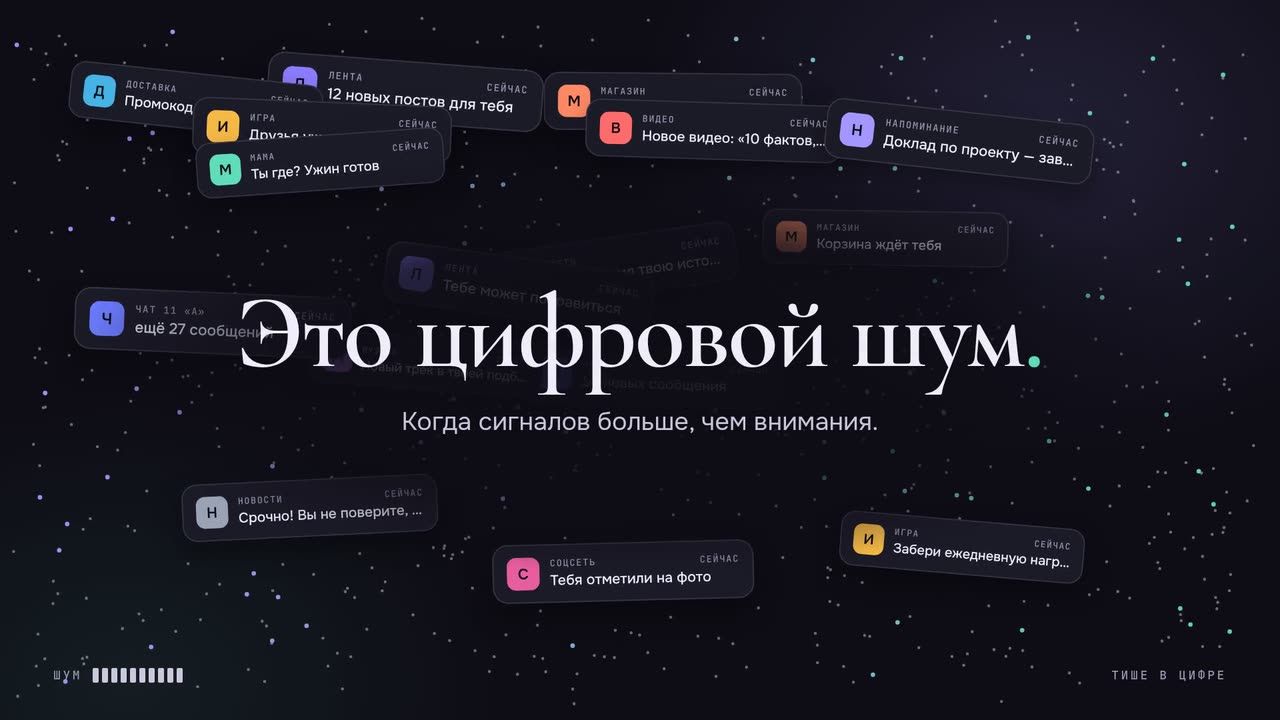
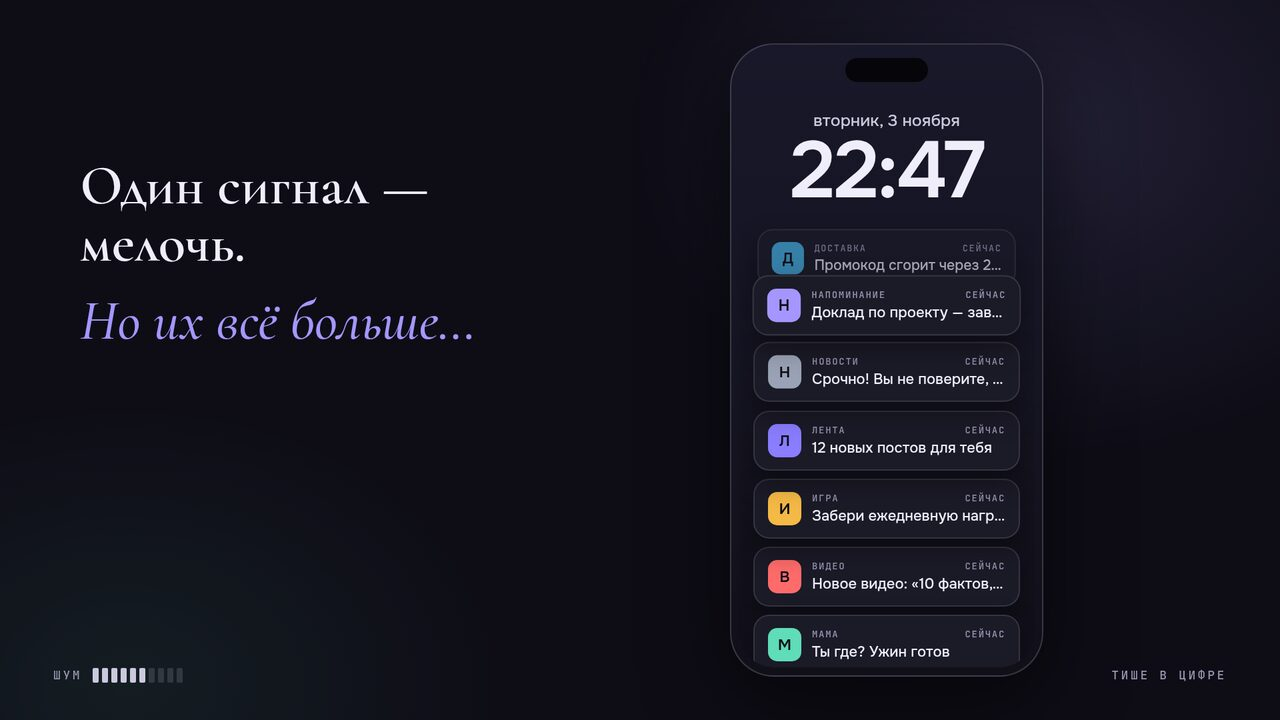
Keep hero dots moving while scrolling; no scroll reveals on phones
- Dots no longer freeze during scroll (on iPhone they stayed frozen for the whole momentum glide). rAF loop: every display frame while the dots rearrange (toggle, hero scroll), every other frame on 120 Hz, 30 fps when they just drift; stops off-screen and in hidden tabs.
- Per-frame drawing reuses typed arrays and a cached gradient, constant per-point math moved to build(); output is pixel-identical.
- Canvas gets its own compositing layer.
- Scroll reveals only with a mouse/trackpad: on phones a flick outran the fade and text appeared late, already on screen.
- New video poster: the iOS play button sits in the centre and covered the title; text is now clear of it.

diff --git a/assets/app.js b/assets/app.js
@@ -70,8 +70,10 @@ document.querySelectorAll('a.cite').forEach(link => {
 if (location.hash.startsWith('#src-')) openSource(location.hash.slice(1));
 updatePlan();
 
-// Плавное появление блоков при прокрутке
-if ('IntersectionObserver' in window && !reduceMotion.matches) {
+// Плавное появление блоков при прокрутке. Только с мышью или тачпадом:
+// на телефоне свайп обгоняет любую анимацию, и текст проявлялся с опозданием, уже на экране
+const finePointer = window.matchMedia('(hover: hover) and (pointer: fine)').matches;
+if ('IntersectionObserver' in window && !reduceMotion.matches && finePointer) {
   document.documentElement.classList.add('js');
   const revealItems = document.querySelectorAll('.section-head, .definition, .film, .card, .step, .note, .plan, .sources details');
   const revealObserver = new IntersectionObserver(entries => {
@@ -127,12 +129,10 @@ window.addEventListener('afterprint', () => {
   let quiet = false;
   try { quiet = localStorage.getItem(quietKey) === '1'; } catch { /* настройка просто не запомнится */ }
 
-  let W = 0, H = 0, heroH = 1, lines = 9, points = [], colors = {};
+  let W = 0, H = 0, heroH = 1, lines = 9, mid = 4, points = [], colors = {}, gradient = null;
+  let plain = new Float32Array(0), signal = new Float32Array(0); // координаты точек: без нового мусора на каждом кадре
   let level = quiet ? 0 : 1; // 1 — шум, 0 — тишина
-  let t = 0, last = 0, raf = 0, timer = 0, visible = true, scrolling = false, scrollIdle = 0, calm = 1;
-  const frameGap = 1000 / 30; // точкам хватает 30 кадров в секунду: вдвое-вчетверо меньше работы
-  // На телефонах анимация замирает, пока страницу листают, чтобы прокрутке ничего не мешало
-  const pauseOnScroll = window.matchMedia('(hover: none), (pointer: coarse)').matches;
+  let t = 0, last = 0, raf = 0, visible = true, calm = 1, busyUntil = 0;
 
   function random(seed) {
     return () => {
@@ -147,6 +147,7 @@ window.addEventListener('afterprint', () => {
     const cs = getComputedStyle(document.documentElement);
     const v = (name, fallback) => cs.getPropertyValue(name).trim() || fallback;
     colors = { ink: v('--ink', '#17152b'), violet: v('--violet', '#5b4ddb'), mint: v('--mint', '#2fb894') };
+    gradient = null;
   }
 
   function build() {
@@ -157,73 +158,91 @@ window.addEventListener('afterprint', () => {
     canvas.height = Math.max(1, Math.round(H * dpr));
     ctx.setTransform(dpr, 0, 0, dpr, 0, 0);
     lines = W < 520 ? 7 : 9;
+    mid = (lines - 1) / 2;
     const perLine = Math.round(Math.min(84, Math.max(40, W / 7)));
+    const mx = W * .05, my = H * .1, spanX = W - mx * 2, spanY = H - my * 2, gap = spanY * .62 / (lines - 1);
     const rand = random(20261102);
     points = [];
     for (let l = 0; l < lines; l++) {
       for (let i = 0; i < perLine; i++) {
-        points.push({ l, u: i / (perLine - 1), sx: rand(), sy: rand(), a: rand() * 6.283, b: rand() * 6.283, fa: .5 + rand() * .9, fb: .4 + rand() * .8, lag: rand() });
+        // Всё, что не меняется от кадра к кадру, считаем один раз
+        const u = i / (perLine - 1), env = Math.pow(Math.sin(Math.PI * u), 1.3);
+        points.push({
+          cx: mx + u * spanX, cy: H / 2 + (l - mid) * gap * (.28 + .72 * env), wave: H * .055 * env, phase: u * 7.5 + l * .5,
+          sx: mx + rand() * spanX, sy: my + rand() * spanY, a: rand() * 6.283, b: rand() * 6.283, fa: .5 + rand() * .9, fb: .4 + rand() * .8, lag: rand(),
+          signal: l === mid
+        });
       }
     }
+    plain = new Float32Array((lines - 1) * perLine * 2);
+    signal = new Float32Array(perLine * 2);
+    gradient = null;
+  }
+
+  function dots(list, count, r) {
+    ctx.beginPath();
+    for (let i = 0; i < count; i += 2) { ctx.moveTo(list[i] + r, list[i + 1]); ctx.arc(list[i], list[i + 1], r, 0, 6.283); }
+    ctx.fill();
   }
 
   function draw(n) {
     ctx.clearRect(0, 0, W, H);
     if (!W || !H) return;
-    const mx = W * .05, my = H * .1, spanX = W - mx * 2, spanY = H - my * 2;
-    const mid = (lines - 1) / 2, gap = spanY * .62 / (lines - 1), amp = H * .055;
-    const normal = [], signal = [];
+    const wt = t * .55;
+    let a = 0, s = 0;
     for (const p of points) {
-      const env = Math.pow(Math.sin(Math.PI * p.u), 1.3);
-      const cx = mx + p.u * spanX;
-      const cy = H / 2 + (p.l - mid) * gap * (.28 + .72 * env) + amp * env * Math.sin(p.u * 7.5 + t * .55 + p.l * .5);
-      const nx = mx + p.sx * spanX + 10 * Math.sin(t * p.fa + p.a) + 4 * Math.sin(t * 3.1 * p.fb + p.b);
-      const ny = my + p.sy * spanY + 10 * Math.cos(t * p.fb + p.b) + 4 * Math.cos(t * 2.7 * p.fa + p.a);
+      let x = p.cx, y = p.cy + p.wave * Math.sin(p.phase + wt);
       const k = Math.min(1, Math.max(0, n * 1.35 - p.lag * .35)); // точки успокаиваются не одновременно
-      const e = k * k * (3 - 2 * k);
-      (p.l === mid ? signal : normal).push(cx + (nx - cx) * e, cy + (ny - cy) * e);
+      if (k > 0) {
+        const e = k * k * (3 - 2 * k);
+        const nx = p.sx + 10 * Math.sin(t * p.fa + p.a) + 4 * Math.sin(t * 3.1 * p.fb + p.b);
+        const ny = p.sy + 10 * Math.cos(t * p.fb + p.b) + 4 * Math.cos(t * 2.7 * p.fa + p.a);
+        x += (nx - x) * e; y += (ny - y) * e;
+      }
+      if (p.signal) { signal[s++] = x; signal[s++] = y; } else { plain[a++] = x; plain[a++] = y; }
     }
-    const dots = (list, r) => { ctx.beginPath(); for (let i = 0; i < list.length; i += 2) { ctx.moveTo(list[i] + r, list[i + 1]); ctx.arc(list[i], list[i + 1], r, 0, 6.283); } ctx.fill(); };
+    if (!gradient) {
+      gradient = ctx.createLinearGradient(W * .05, 0, W * .95, 0);
+      gradient.addColorStop(0, colors.violet); gradient.addColorStop(1, colors.mint);
+    }
     ctx.globalAlpha = .2 + .3 * (1 - n);
     ctx.fillStyle = colors.ink;
-    dots(normal, 1.3);
-    const g = ctx.createLinearGradient(mx, 0, W - mx, 0);
-    g.addColorStop(0, colors.violet); g.addColorStop(1, colors.mint);
+    dots(plain, a, 1.3);
     const lineAlpha = Math.max(0, 1 - n / .55);
-    if (lineAlpha > 0) {
+    if (lineAlpha > 0 && s) {
       ctx.globalAlpha = lineAlpha * .9;
-      ctx.strokeStyle = g; ctx.lineWidth = 2; ctx.lineJoin = 'round'; ctx.lineCap = 'round';
+      ctx.strokeStyle = gradient; ctx.lineWidth = 2; ctx.lineJoin = 'round'; ctx.lineCap = 'round';
       ctx.beginPath();
-      for (let i = 0; i < signal.length; i += 2) { if (i) ctx.lineTo(signal[i], signal[i + 1]); else ctx.moveTo(signal[i], signal[i + 1]); }
+      ctx.moveTo(signal[0], signal[1]);
+      for (let i = 2; i < s; i += 2) ctx.lineTo(signal[i], signal[i + 1]);
       ctx.stroke();
     }
     ctx.globalAlpha = .95;
-    ctx.fillStyle = g;
-    dots(signal, 2.1);
+    ctx.fillStyle = gradient;
+    dots(signal, s, 2.1);
     ctx.globalAlpha = 1;
   }
 
   // Чем ниже прокрутили главный экран, тем спокойнее точки
   const calmTarget = () => still ? 1 : 1 - .75 * Math.min(1, Math.max(0, window.scrollY / (heroH * .9)));
   const render = () => draw(level * calm);
-  const canRun = () => !still && visible && !scrolling && !document.hidden;
 
-  function stop() {
-    cancelAnimationFrame(raf); clearTimeout(timer);
-    raf = timer = 0;
-  }
+  // Точки не замирают, даже пока страницу листают. Когда они перестраиваются (переключатель,
+  // прокрутка главного экрана), рисуем каждый кадр экрана, на 120 Гц — через один.
+  // Когда просто плавают, хватает 30 кадров в секунду: такое медленное движение глаз не отличит
   function frame(now) {
-    raf = 0;
+    raf = requestAnimationFrame(frame);
+    const target = quiet ? 0 : 1, ct = calmTarget();
+    if (Math.abs(target - level) > .005 || Math.abs(ct - calm) > .005) busyUntil = now + 600;
+    if (last && now - last < (now < busyUntil ? 10 : 26)) return;
     const dt = last ? Math.min(.05, (now - last) / 1000) : 0;
     last = now; t += dt;
-    level += ((quiet ? 0 : 1) - level) * (1 - Math.exp(-dt * 1.8));
-    calm += (calmTarget() - calm) * (1 - Math.exp(-dt * 3));
+    level += (target - level) * (1 - Math.exp(-dt * 1.8));
+    calm += (ct - calm) * (1 - Math.exp(-dt * 3));
     render();
-    if (!canRun()) return;
-    const wait = Math.max(0, frameGap - (performance.now() - now) - 4);
-    timer = setTimeout(() => { timer = 0; raf = requestAnimationFrame(frame); }, wait);
   }
-  function start() { if (canRun() && !raf && !timer) { last = 0; raf = requestAnimationFrame(frame); } }
+  function start() { if (!still && visible && !document.hidden && !raf) { last = 0; raf = requestAnimationFrame(frame); } }
+  function stop() { cancelAnimationFrame(raf); raf = 0; }
 
   function sync() { if (toggle) toggle.setAttribute('aria-pressed', String(quiet)); }
 
@@ -252,14 +271,6 @@ window.addEventListener('afterprint', () => {
     }).observe(canvas);
   }
   document.addEventListener('visibilitychange', () => { if (document.hidden) stop(); else start(); });
-  if (pauseOnScroll && !still) {
-    window.addEventListener('scroll', () => {
-      scrolling = true;
-      stop();
-      clearTimeout(scrollIdle);
-      scrollIdle = setTimeout(() => { scrolling = false; start(); }, 200);
-    }, { passive: true });
-  }
   if (still) window.addEventListener('resize', () => { build(); render(); });
   start();
 })();

diff --git a/index.html b/index.html
@@ -24,7 +24,7 @@
   <meta name="apple-mobile-web-app-title" content="Тише в цифре">
   <link rel="preload" href="assets/fonts/cormorant-garamond-n600-cyrillic.woff2" as="font" type="font/woff2" crossorigin>
   <link rel="preload" href="assets/fonts/onest-var-cyrillic.woff2" as="font" type="font/woff2" crossorigin>
-  <link rel="stylesheet" href="assets/style.css?v=7">
+  <link rel="stylesheet" href="assets/style.css?v=8">
 </head>
 <body>
   <a class="skip-link" href="#noise">Перейти к содержанию</a>
@@ -65,7 +65,7 @@
         <div class="section-head"><div class="eyebrow mobile-only">01 · Определение</div><h2>Не вся информация&nbsp;— шум.</h2><p>В проекте используется рабочее определение: оно помогает обсуждать тему, но не является медицинским термином.</p></div>
         <div class="definition"><div class="label">Рабочее определение</div><p><dfn>Цифровой шум</dfn>&nbsp;— поток уведомлений, сообщений и рекомендаций, который отвлекает, перегружает или мешает сосредоточиться на важном.</p></div>
         <figure class="film">
-          <div class="film-frame"><video controls preload="none" playsinline poster="assets/film-poster.jpg" aria-describedby="film-desc" width="1920" height="1080"><source src="assets/film.mp4" type="video/mp4"></video></div>
+          <div class="film-frame"><video controls preload="none" playsinline poster="assets/film-poster.jpg?v=2" aria-describedby="film-desc" width="1920" height="1080"><source src="assets/film.mp4" type="video/mp4"></video></div>
           <figcaption id="film-desc"><strong>Цифровой шум за 20 секунд.</strong> Видео без звука и включается только по нажатию: уведомления копятся, лишние гаснут, остаётся важное.</figcaption>
         </figure>
       </div>
@@ -132,6 +132,6 @@
   </main>
 
   <footer><div class="wrap footline"><div><span class="foot-brand">Тише в цифре</span><span class="small">Информационный сайт-памятка · индивидуальный проект · 2026</span></div><div class="foot-right">Материал не заменяет консультацию специалиста.<br>Тамбов</div></div></footer>
-  <script src="assets/app.js?v=7" defer></script>
+  <script src="assets/app.js?v=8" defer></script>
 </body>
 </html>

diff --git a/assets/style.css b/assets/style.css
@@ -119,7 +119,7 @@ h1 .dot { color: var(--mint); }
 
 .hero-art { position: relative; margin: 0; }
 .art-stage { position: relative; aspect-ratio: 6 / 5; }
-.art-stage canvas { position: absolute; inset: 0; width: 100%; height: 100%; }
+.art-stage canvas { position: absolute; inset: 0; width: 100%; height: 100%; will-change: transform; } /* отдельный слой: кадры точек не перерисовывают текст вокруг */
 .art-fallback { position: absolute; inset: 0; width: 100%; height: 100%; fill: none; stroke: var(--line-strong); stroke-width: 1.5; stroke-linecap: round; }
 .art-fallback .signal { stroke: var(--violet); stroke-width: 2.5; }
 .hero-art.is-live .art-fallback { display: none; }

diff --git a/README.md b/README.md
@@ -22,7 +22,7 @@
 | --- | --- |
 | `index.html` | Вся страница: разметка и тексты |
 | `assets/style.css` | Оформление, светлая и тёмная темы, мобильная и печатная версии |
-| `assets/app.js` | Мини-план, ссылки на источники, подсветка меню, появление блоков, анимация главного экрана |
+| `assets/app.js` | Мини-план, ссылки на источники, подсветка меню, появление блоков (на компьютере), анимация главного экрана |
 | `assets/fonts/` | Шрифты Cormorant Garamond, Onest и JetBrains Mono (лицензия SIL OFL) |
 | `assets/film.mp4` | Видео «Цифровой шум за 20 секунд» (1920×1080, без звука) |
 | `assets/film-poster.jpg` | Обложка видео до запуска |
